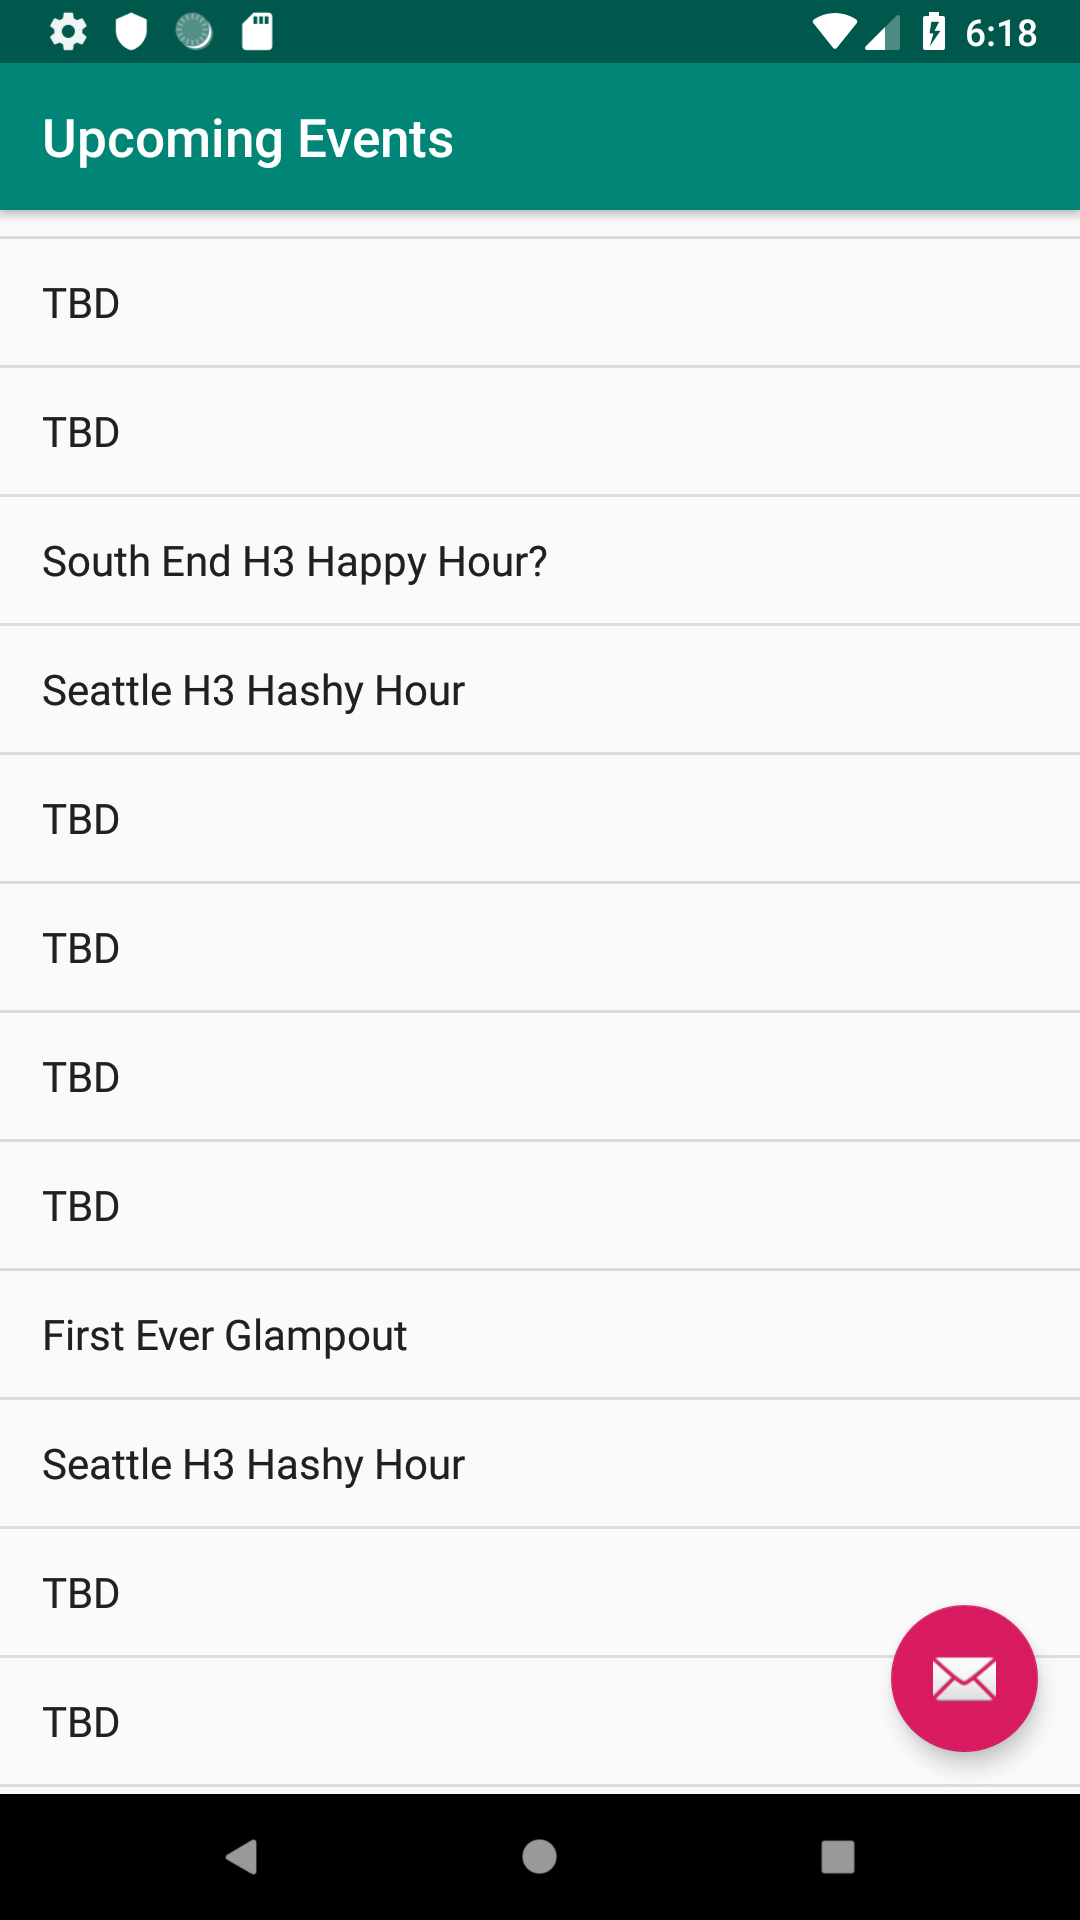
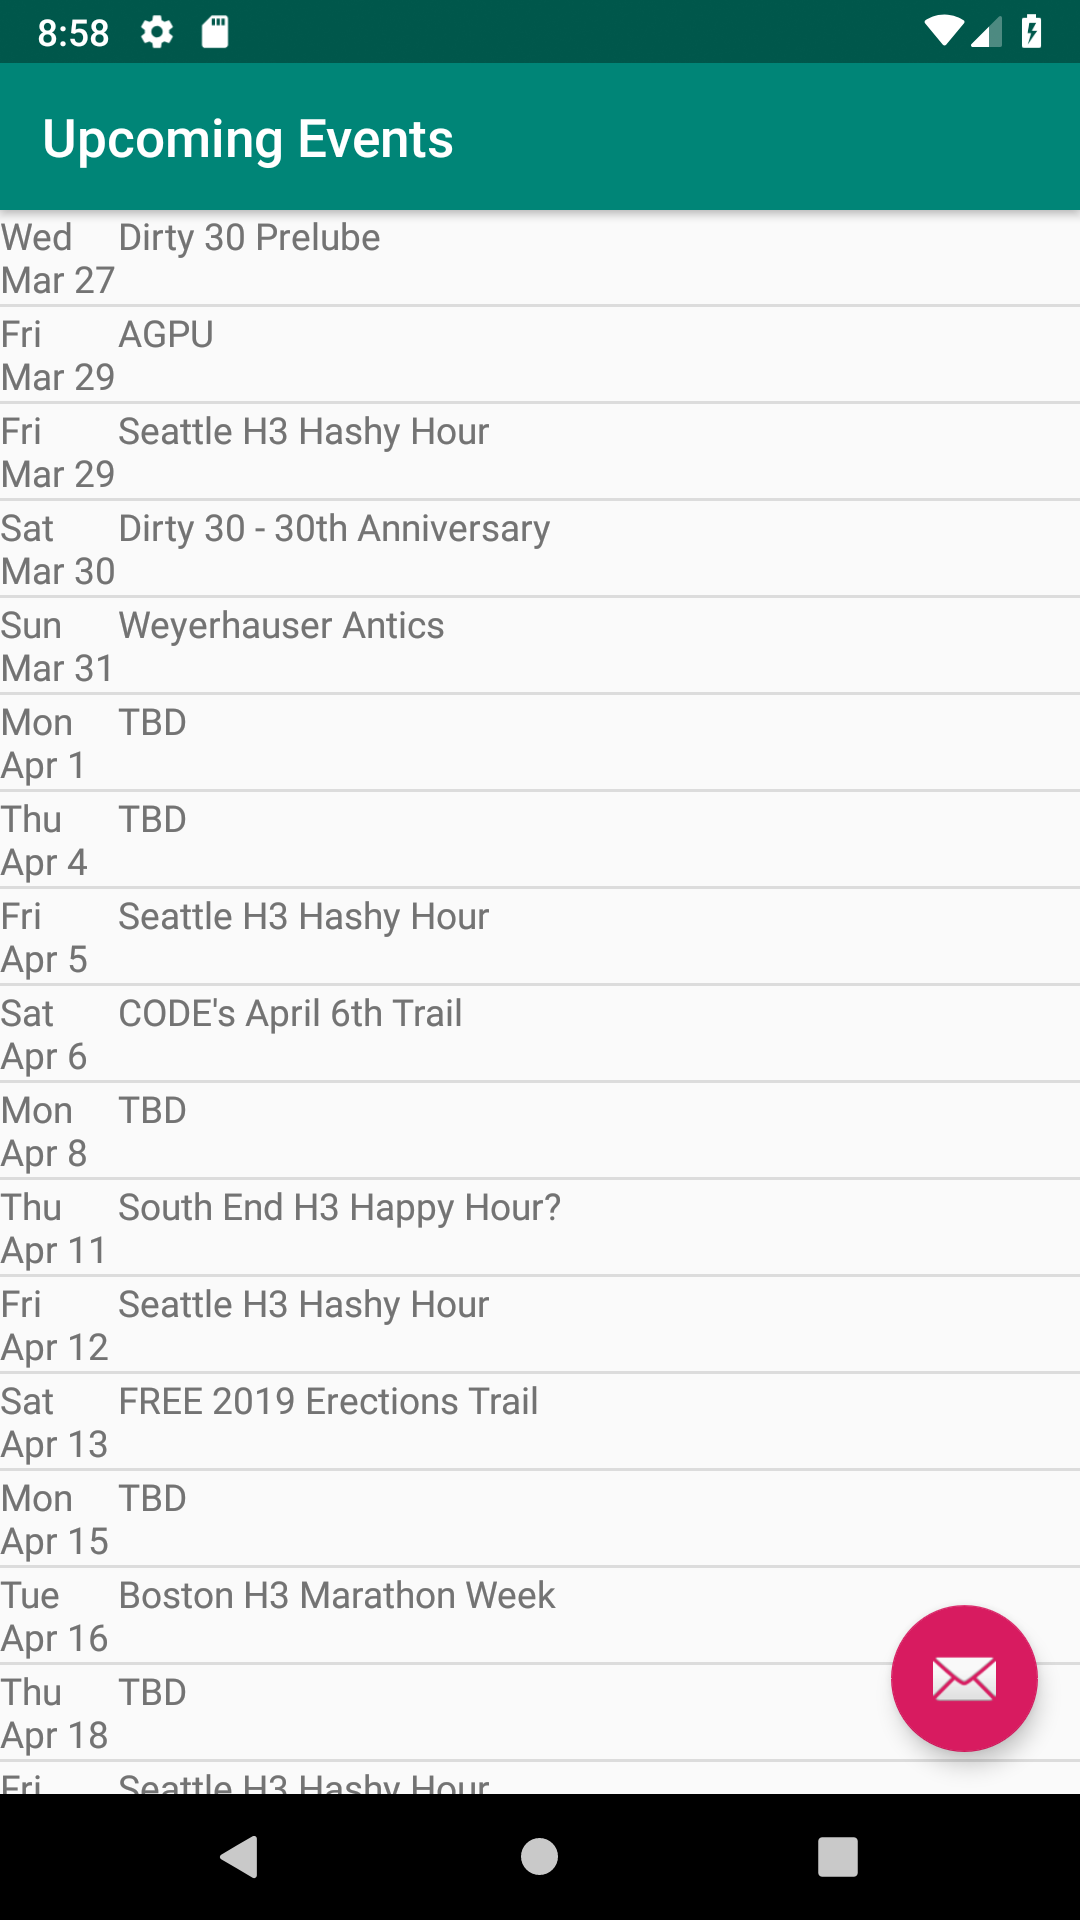
add event list adapter, update links and screen shot

diff --git a/app/src/main/java/com/nullgeodesic/washingtonhhh/service/EventListAdapter.java b/app/src/main/java/com/nullgeodesic/washingtonhhh/service/EventListAdapter.java
@@ -1,0 +1,39 @@
+package com.nullgeodesic.washingtonhhh.service;
+
+import android.content.Context;
+import android.view.LayoutInflater;
+import android.view.View;
+import android.view.ViewGroup;
+import android.widget.ArrayAdapter;
+import android.widget.TextView;
+
+import com.nullgeodesic.washingtonhhh.R;
+import com.nullgeodesic.washingtonhhh.domain.archive.HashEvent;
+
+import java.util.List;
+
+public class EventListAdapter extends ArrayAdapter<HashEvent> {
+
+    private final Context context;
+    private final List<HashEvent> events;
+
+    public EventListAdapter(final Context context, final int resource, int textViewResourceId, final List<HashEvent> events) {
+        super(context, resource, textViewResourceId, events);
+        this.context = context;
+        this.events = events;
+    }
+
+    @Override
+    public View getView(int position, View convertView, ViewGroup parent) {
+        final HashEvent event = this.events.get(position);
+        final LayoutInflater inflater = (LayoutInflater) context.getSystemService(Context.LAYOUT_INFLATER_SERVICE);
+        final View view = inflater.inflate(R.layout.content_event_list_item, parent, false);
+        textView(view, R.id.list_item_date_textview, event.getDateStringShort());
+        textView(view, R.id.list_item_name_textview, event.getEventName());
+        return view;
+    }
+
+    private static void textView(View parentView, int viewId, String text) {
+        ((TextView) parentView.findViewById(viewId)).setText(text);
+    }
+}

diff --git a/app/src/main/java/com/nullgeodesic/washingtonhhh/EventListActivity.java b/app/src/main/java/com/nullgeodesic/washingtonhhh/EventListActivity.java
@@ -14,9 +14,7 @@ import android.widget.ListView;
 
 import com.nullgeodesic.washingtonhhh.domain.archive.HashEvent;
 import com.nullgeodesic.washingtonhhh.service.ContentHolder;
-
-import java.util.ArrayList;
-import java.util.List;
+import com.nullgeodesic.washingtonhhh.service.EventListAdapter;
 
 public class EventListActivity extends AppCompatActivity {
 
@@ -41,14 +39,9 @@ public class EventListActivity extends AppCompatActivity {
         });
 
         final ListView listView = (ListView) findViewById(R.id.content_event_list_view);
-        final List<String> eventList = new ArrayList<>();
-        for (final HashEvent item : ContentHolder.ITEMS) {
-            eventList.add(item.getEventName());
-        }
-        final ArrayAdapter<String> arrayAdapter = new ArrayAdapter<String>
-                (this, android.R.layout.simple_list_item_1, eventList);
+        final ArrayAdapter<HashEvent> arrayAdapter = new EventListAdapter(this, R.layout.content_event_list_item, R.id.list_item_name_textview, ContentHolder.ITEMS);
         listView.setAdapter(arrayAdapter);
-        
+
         final Activity currentActivity = this;
         listView.setOnItemClickListener(new AdapterView.OnItemClickListener() {
             @Override

diff --git a/app/src/main/java/com/nullgeodesic/washingtonhhh/service/CommunicationController.java b/app/src/main/java/com/nullgeodesic/washingtonhhh/service/CommunicationController.java
@@ -11,7 +11,6 @@ import com.android.volley.toolbox.StringRequest;
 import com.android.volley.toolbox.Volley;
 import com.google.gson.Gson;
 import com.nullgeodesic.washingtonhhh.EventListActivity;
-import com.nullgeodesic.washingtonhhh.MainActivity;
 import com.nullgeodesic.washingtonhhh.SplashActivity;
 import com.nullgeodesic.washingtonhhh.domain.archive.HashEvent;
 import com.nullgeodesic.washingtonhhh.dto.CalendarDto;

diff --git a/design/design.md b/design/design.md
@@ -2,11 +2,11 @@
 
 Page layout TODOs:
 
-- splash screen ([working layout](screen_shots/splash_screen.png))
-- event list page ([working layout](screen_shots/event_list.png), [old example](https://lh3.googleusercontent.com/42bZqWQt8hy5sa4BMCuCW576GmMcUM_-We1IfMa6ofN2xo9ffcHfwrS727v4Bn3LrQ=w1777-h820-rw))
+- splash screen ([working layout](https://raw.githubusercontent.com/davegarred/WH3/master/design/screen_shots/splash_screen.png))
+- event list page ([working layout](https://raw.githubusercontent.com/davegarred/WH3/master/design/screen_shots/event_list.png), [old example](https://lh3.googleusercontent.com/42bZqWQt8hy5sa4BMCuCW576GmMcUM_-We1IfMa6ofN2xo9ffcHfwrS727v4Bn3LrQ=w1777-h820-rw))
   - are "empty" events clickable?
-- event page for events with details ([working layout](screen_shots/event_details.png), [old example](https://lh3.googleusercontent.com/JfoL9T7z-dcWzOs1mSLZXCdH7Lf7beL_2jFVjJY88PxgnQOTh9ZLoRsI9DASBV-mtA=w1777-h820-rw))
-- event page for events with no details yet ([working layout](screen_shots/empty_event_details.png), old app did not have a display for events with no details)
+- event page for events with details ([working layout](https://raw.githubusercontent.com/davegarred/WH3/master/design/screen_shots/event_details.png), [old example](https://lh3.googleusercontent.com/JfoL9T7z-dcWzOs1mSLZXCdH7Lf7beL_2jFVjJY88PxgnQOTh9ZLoRsI9DASBV-mtA=w1777-h820-rw))
+- event page for events with no details yet ([working layout](https://raw.githubusercontent.com/davegarred/WH3/master/design/screen_shots/empty_event_details.png), old app did not have a display for events with no details)
 
 Needed assets:
 
